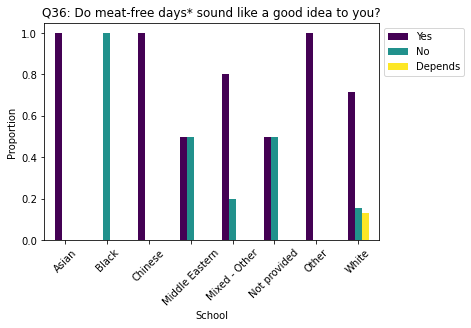
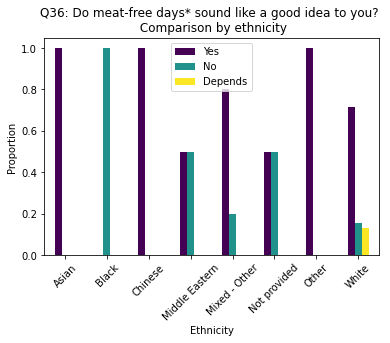
Add files via upload

Changed region(s): [[0.0, 0.0, 1.0, 0.9756]]

diff --git a/schoolmeals_school_socioeconomic.py b/schoolmeals_school_socioeconomic.py
@@ -1,10 +1,3 @@
-# -*- coding: utf-8 -*-
-"""
-Created on Mon Mar  4 19:07:11 2024
-
-@author: howoo
-"""
-
 import pandas as pd
 import numpy as np
 import matplotlib.pyplot as plt
@@ -35,23 +28,27 @@ df_schools = school_1a.append(school_1b).append(school_2)
 
 # Cleanse Q36: support for meat-free days
 set(df_schools['Q36']) # Check unique values
-df_schools['Q36'].replace(['It depends, please specify:'], ['Depends'], inplace=True)
-set(df_schools['Q36']) # Check unique values
+df_schools['Q36_Cleansed'] = df_schools['Q36'].map(
+    {'It depends, please specify:': 'Depends',
+     'No': 'No',
+     'Yes': 'Yes',
+     'nan': np.nan})
+set(df_schools['Q36_Cleansed']) # Check unique values
 
 # Cleanse Q37: frequency of meat-free days
 set(df_schools['Q37']) # Check unique values
-df_schools['Q37'] = df_schools['Q37'].map(
+df_schools['Q37_Cleansed'] = df_schools['Q37'].map(
     {'More than three days/ week ': '>3',
     'One day/ week ': 1,
     'Other. Please add/ elaborate on your answer further.': 'Other',
     'Three days/ week ': 3,
     'Two days/ week ': 2,
     'nan': np.nan})
-set(df_schools['Q37']) # Check unique values
+set(df_schools['Q37_Cleansed']) # Check unique values
 
 # Cleanse Q4: ethnicity
 set(df_schools['Q4']) # Check unique values
-df_schools['Q4'] = df_schools['Q4'].map(
+df_schools['Ethnicity'] = df_schools['Q4'].map(
     {'Asian /Asian British- Indian, Pakistani, Bangladeshi, other': 'Asian',
      'Black/Black British – Caribbean, African, other': 'Black',
      'Chinese / Chinese British': 'Chinese',
@@ -62,7 +59,63 @@ df_schools['Q4'] = df_schools['Q4'].map(
      'Prefer not to say': 'Not provided',
      'White – British, Irish, other': 'White',
      'nan': np.nan})
-set(df_schools['Q4']) # Check unique values
+set(df_schools['Ethnicity']) # Check unique values
+
+# Cleanse Q3: stakeholder
+set(df_schools['Q3']) # Check unique values
+set(df_schools['Q3_4_TEXT']) # Check unique values
+# Step 1: Cleanse Q3
+df_schools['Stakeholder'] = df_schools['Q3'].map(
+    {'A caterer at a primary school': 'Staff - Other',
+     'A parent/ carer of primary school children': 'Parent/Carer',
+     'Other': 'Other',
+     'Senior leadership management team member at a primary school': 'Staff - Other',
+     'Teacher/ teaching assistant at a primary school': 'Staff - Teaching',
+     'nan': np.nan})
+# Step 2: Replace 'Other' with 'Yes', 'No' or nan depending on free text
+df_schools['Stakeholder'] = np.where(
+    df_schools['Stakeholder'] == 'Other',
+    df_schools['Q3_4_TEXT'].map(
+        {'A parent of one primary aged child. ': 'Parent/Carer',
+         'Administrator of school lunches': 'Staff - Other',
+         'Producer/farmer': np.nan,
+         'nan': np.nan}),
+    df_schools['Stakeholder'])
+# Check unique values
+set(df_schools['Stakeholder']) # Check unique values
+
+
+# Cleanse Q17: payment for school meals (parents/carers only)
+set(df_schools['Q17']) # Check unique values
+set(df_schools['Q17_4_TEXT']) # Check unique values when Q17 is 'Other'
+# Step 1: Cleanse Q17
+df_schools['FSM_Eligibility'] = df_schools['Q17'].map(
+    {'No, my child(ren) is/are eligible for free school meals': 'Yes',
+     'No, my child(ren) is/are in KS1 ( reception, year 1 or year 2)': np.nan, # Can't tell whether child would be eligible for FSM
+     'Other, please specify below:': 'Other',
+     'Yes': 'No',
+     'nan': np.nan})
+# Step 2: Replace 'Other' with 'Yes', 'No' or nan depending on free text
+df_schools['FSM_Eligibility'] = np.where(
+    df_schools['FSM_Eligibility'] == 'Other',
+    df_schools['Q17_4_TEXT'].map(
+        {"Doesn't have school meals": np.nan,
+         'For the first child': 'No',
+         'I pay for one child, but not the other who is in KS1': 'No',
+         'If they had school meals I would have to pay. ': 'No',
+         'No school meals': np.nan,
+         'No they never eat them': np.nan,
+         'No, we don’t pay for school meals and not eligible for free school meals': 'No',
+         'None in reception': np.nan,
+         'One is free due to foundation year, the other is year 3 and we pay': 'No',
+         'Pay for first child, don’t pay for 2nd as yr 1': 'No',
+         'Take own packed lunch': np.nan,
+         'We supply her with a packed lunch': np.nan,
+         'Would have to for the older in KS2 but not the younger ones ': 'No',
+         'nan': np.nan}),
+    df_schools['FSM_Eligibility'])
+# Check unique values
+set(df_schools['FSM_Eligibility']) 
 
 
 # ---------------------------------
@@ -71,8 +124,12 @@ set(df_schools['Q4']) # Check unique values
 
 # Plot proportion of responses to meat-free days by school
 
+# Calculate counts of each response and unstack (to check sample size)
+counts_school = df_schools.groupby('School')['Q36_Cleansed'].value_counts(normalize=False).unstack()
+counts_school = counts_school[['Yes', 'No', 'Depends']] # Reorder columns
+
 # Calculate proportion of each response and unstack
-props_school = df_schools.groupby('School')['Q36'].value_counts(normalize=True).unstack()
+props_school = df_schools.groupby('School')['Q36_Cleansed'].value_counts(normalize=True).unstack()
 props_school = props_school[['Yes', 'No', 'Depends']] # Reorder columns
 
 # Plot bar graph
@@ -81,8 +138,9 @@ ax = props_school.plot(kind='bar', stacked=False, colormap='viridis')
 # Customize the plot
 ax.set_xlabel('School')
 ax.set_ylabel('Proportion')
-ax.set_title('Q36: Do meat-free days* sound like a good idea to you?')
-ax.legend(title = None, bbox_to_anchor=(1, 1))
+ax.set_title('Q36: Do meat-free days* sound like a good idea to you? \n Comparison by school')
+ax.legend(title = None)
+plt.xticks(rotation=0)
 
 plt.show()
 
@@ -91,21 +149,21 @@ plt.show()
 # Plot proportion of responses to meat-free days by ethnicity
 
 # Calculate counts of each response and unstack (to check sample size)
-counts_ethnicity = df_schools.groupby('Q4')['Q36'].value_counts(normalize=False).unstack()
+counts_ethnicity = df_schools.groupby('Ethnicity')['Q36_Cleansed'].value_counts(normalize=False).unstack()
 counts_ethnicity = counts_ethnicity[['Yes', 'No', 'Depends']] # Reorder columns
 
 # Calculate proportion of each response and unstack
-props_ethnicity = df_schools.groupby('Q4')['Q36'].value_counts(normalize=True).unstack()
+props_ethnicity = df_schools.groupby('Ethnicity')['Q36_Cleansed'].value_counts(normalize=True).unstack()
 props_ethnicity = props_ethnicity[['Yes', 'No', 'Depends']] # Reorder columns
 
 # Plot bar graph
 ax = props_ethnicity.plot(kind='bar', stacked=False, colormap='viridis')
 
 # Customize the plot
-ax.set_xlabel('School')
+ax.set_xlabel('Ethnicity')
 ax.set_ylabel('Proportion')
-ax.set_title('Q36: Do meat-free days* sound like a good idea to you?')
-ax.legend(title = None, bbox_to_anchor=(1, 1))
+ax.set_title('Q36: Do meat-free days* sound like a good idea to you? \n Comparison by ethnicity')
+ax.legend(title = None, loc='upper center')
 plt.xticks(rotation=45)
 
 plt.show()
@@ -113,3 +171,61 @@ plt.show()
 
 
 
+# Plot proportion of responses to meat-free days by stakeholder
+
+# Create categorical column
+df_schools['Stakeholder'] = pd.Categorical(df_schools['Stakeholder'],
+                                           categories=['Parent/Carer', 'Staff - Teaching', 'Staff - Other'],
+                                           ordered=True)
+
+# Calculate counts of each response and unstack (to check sample size)
+counts_stakeholder = df_schools.groupby('Stakeholder')['Q36_Cleansed'].value_counts(normalize=False).unstack()
+counts_stakeholder = counts_stakeholder[['Yes', 'No', 'Depends']] # Reorder columns
+
+# Calculate proportion of each response and unstack
+props_stakeholder = df_schools.groupby('Stakeholder')['Q36_Cleansed'].value_counts(normalize=True).unstack()
+props_stakeholder = props_stakeholder[['Yes', 'No', 'Depends']] # Reorder columns
+
+# Plot bar graph
+ax = props_stakeholder.plot(kind='bar', stacked=False, colormap='viridis')
+
+# Customize the plot
+ax.set_xlabel('Stakeholder')
+ax.set_ylabel('Proportion')
+ax.set_title('Q36: Do meat-free days* sound like a good idea to you? \n Comparison by stakeholder')
+ax.legend(title = None)
+plt.xticks(rotation=0)
+
+plt.show()
+
+
+
+
+# Plot proportion of responses to meat-free days by FSM eligibility
+
+# Calculate counts of each response and unstack (to check sample size)
+counts_fsm = df_schools.groupby('FSM_Eligibility')['Q36_Cleansed'].value_counts(normalize=False).unstack()
+counts_fsm = counts_fsm[['Yes', 'No', 'Depends']] # Reorder columns
+
+# Calculate proportion of each response and unstack
+props_fsm = df_schools.groupby('FSM_Eligibility')['Q36_Cleansed'].value_counts(normalize=True).unstack()
+props_fsm = props_fsm[['Yes', 'No', 'Depends']] # Reorder columns
+
+# Plot bar graph
+ax = props_fsm.plot(kind='bar', stacked=False, colormap='viridis')
+
+# Customize the plot
+ax.set_xlabel('Eligible for free school meals')
+ax.set_ylabel('Proportion')
+ax.set_title('Q36: Do meat-free days* sound like a good idea to you? \n Comparison by eligibility for free school meals')
+ax.legend(title = None)
+plt.xticks(rotation=0)
+
+plt.show()
+
+
+
+# Contingency table between ethnicity and FSM eligibility
+ethnicity_fsm = pd.crosstab(index=df_schools['Ethnicity'].fillna('NA'),
+                            columns=df_schools['FSM_Eligibility'].fillna('NA'),
+                            margins=True)
